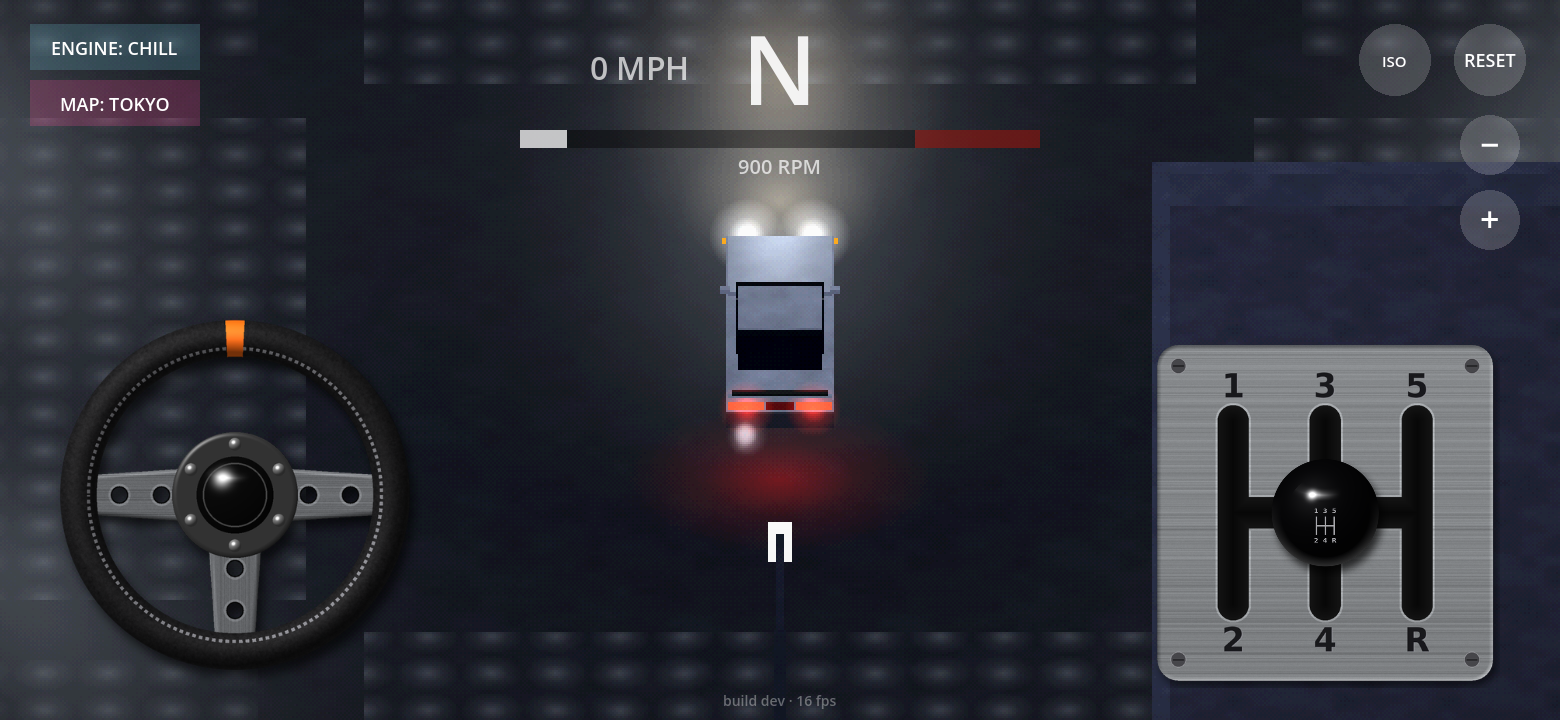
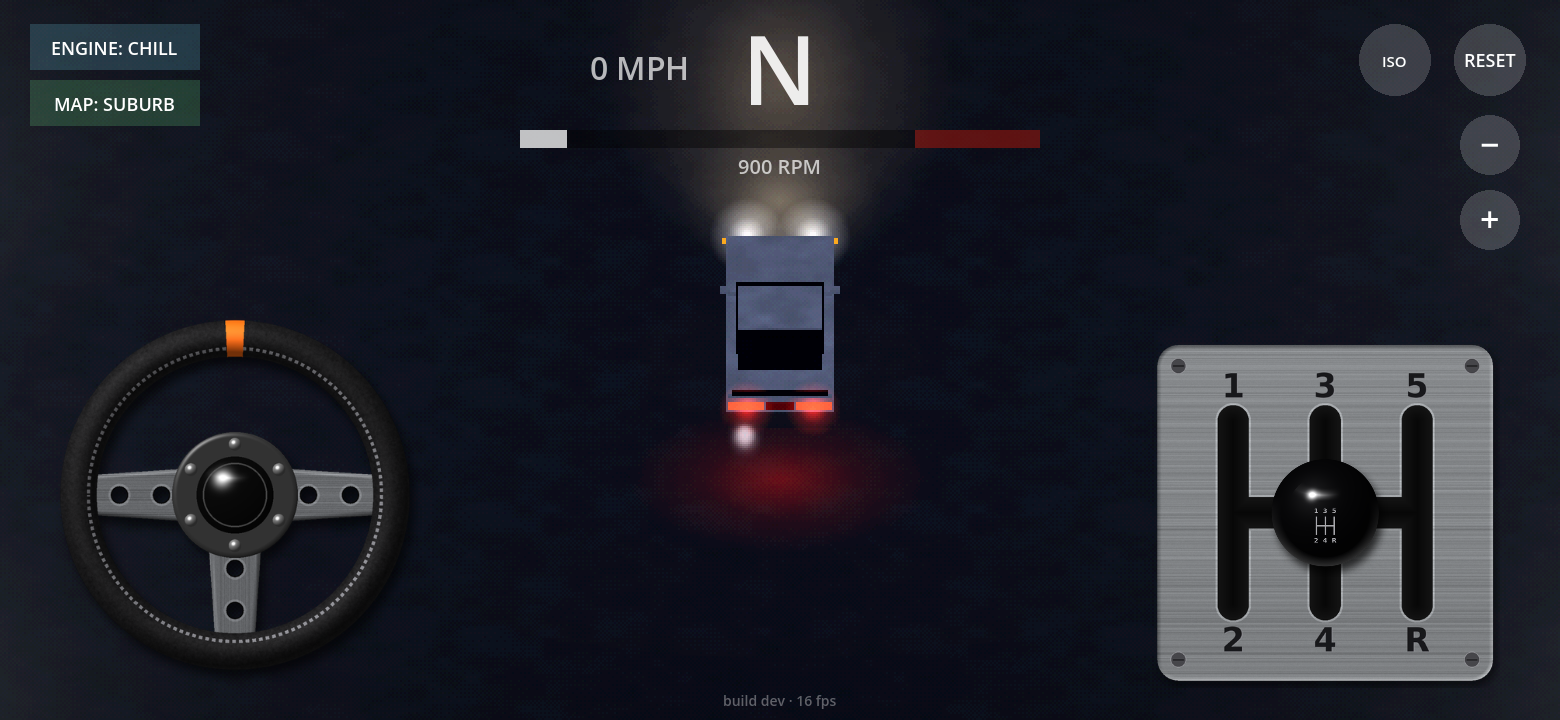
Chill pass: suburb is the default map again, short gears, softer power
- Final drive 4.3 -> 6.9: 1st-5th top out ~22/40/58/79/92 mph, so you live
  in 2nd and 3rd around the neighbourhood and shift more
- Torque multiplier 1.6 -> 0.85 (0-30 mph ~3.3s); 2nd still holds a drift
- Kicks and drift detection work from lower speeds
- Camera dynamic zoom retuned for the new speed range
- Tokyo stays available behind the MAP button

Claude-Session: https://claude.ai/code/session_01X5D3N9oUK59uFhYSHv3wU5

diff --git a/README.md b/README.md
@@ -2,7 +2,7 @@
 
 *Night drifting with a real stick.*
 
-A semi top-down, pixelated low-poly drift game. Night-time Tokyo streets (or a quiet suburb), neon and white LED street lights, an S13-style coupe, an on-screen steering wheel and a real H-pattern stick shift. The gas is always on, so shifting *is* the game: forget to shift and you'll blow the engine, downshift too hard and you'll blow it faster.
+A chill, semi top-down, pixelated low-poly drift game. A quiet night-time suburb (or Tokyo streets), white LED street lights, an S13-style coupe, an on-screen steering wheel and a real H-pattern stick shift. The gas is always on, so shifting *is* the game: forget to shift and you'll blow the engine, downshift too hard and you'll blow it faster.
 
 Built in Godot 4.7.
 
@@ -36,9 +36,9 @@ Built in Godot 4.7.
 | Camera | ISO / 3D button (top-right): flat isometric or perspective, both behind the car | V | Select |
 | Zoom | Automatic: close when slow, pulls out with speed and drifting. Pinch or − / + sets how close it sits when slow | - / = or mouse wheel | Y / X |
 | Reset | RESET (top-right) | Enter | Start |
-| Map | MAP: TOKYO / SUBURB (top-left), reloads the game | | |
+| Map | MAP: SUBURB / TOKYO (top-left), reloads the game | | |
 
-- **The gas is always on** whenever you're in gear.
+- **The gas is always on** whenever you're in gear. Short gears keep it chill: about 22 / 40 / 58 / 79 / 92 mph in 1st to 5th.
 - **Slow down** by downshifting (engine braking) or knocking it into **neutral**.
 - **Drift:** there's no e-brake. Get going in 2nd and either **flick** the wheel quickly or **downshift while turning** (a clutch kick) to break the rear loose, then countersteer. Smooth steering stays planted. 2nd is the drift gear; once you're sliding you get full power to hold it.
 - **Forgiving by default:** the auto gas keeps the rear tires hooked up while you're just driving, and steering tightens up with speed, so the car only slides when you kick it out. Once you're sliding you get full power to hold it, a little countersteer assist, and past about 35° the car resists spinning out.
